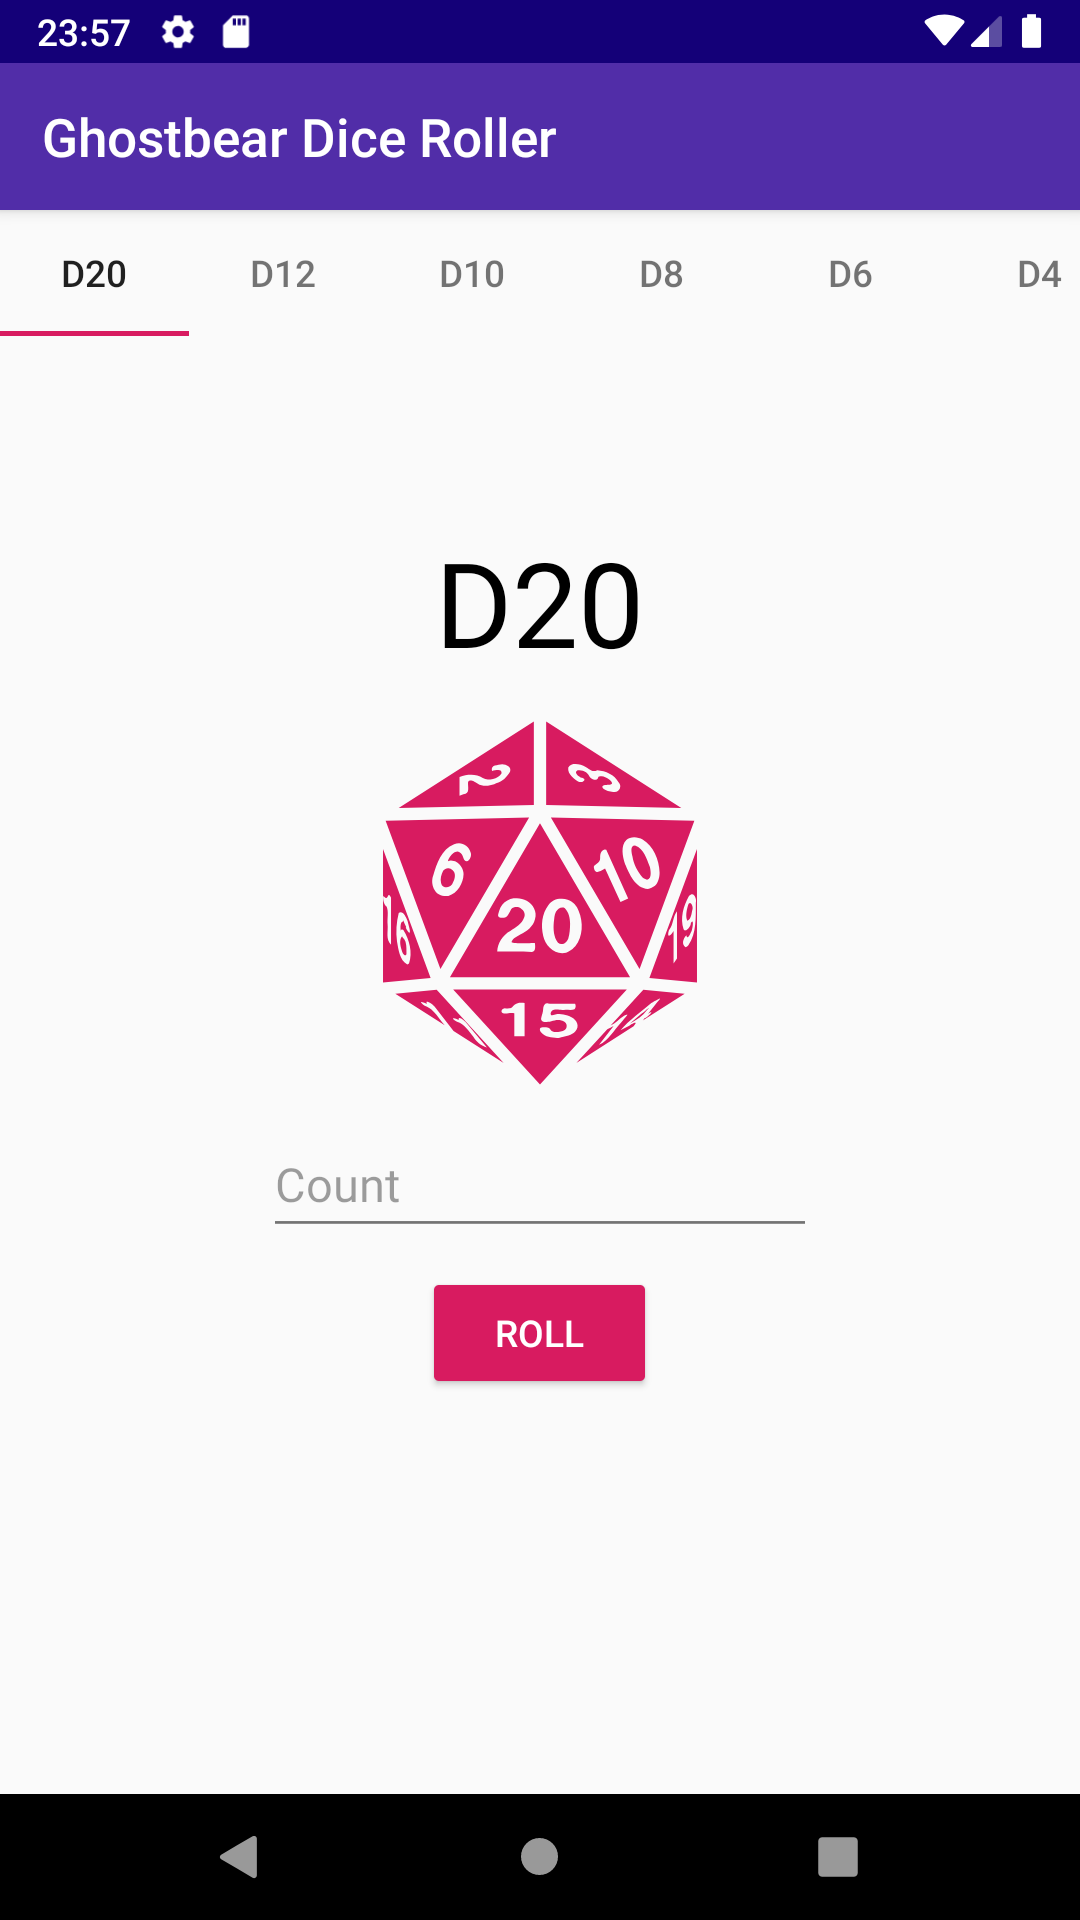
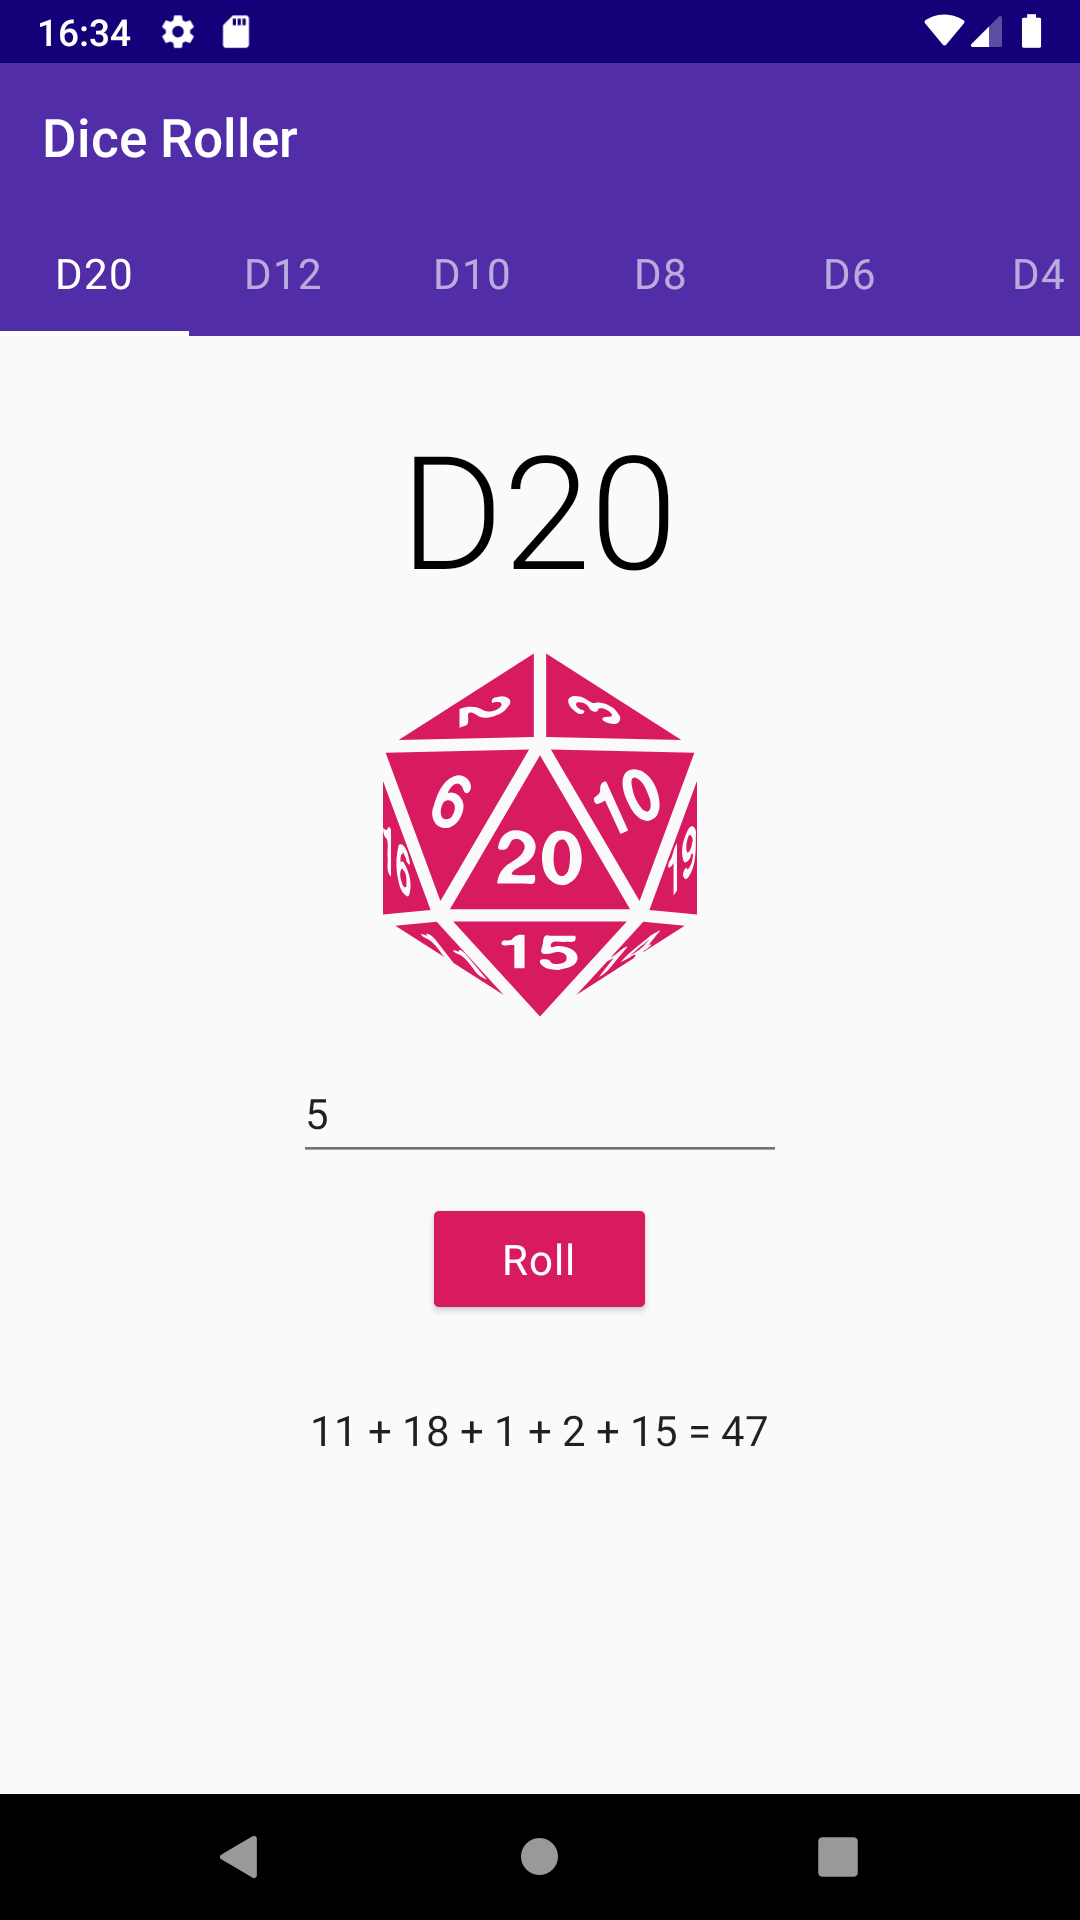
Add Meterial TabLayout
Updated Screenshot
App name to Dice Roller instead of Ghostbear Dice Roller

diff --git a/app/src/main/java/com/github/ghostbear/ghostbeardiceroller/MainActivity.java b/app/src/main/java/com/github/ghostbear/ghostbeardiceroller/MainActivity.java
@@ -9,6 +9,7 @@ public class MainActivity extends AppCompatActivity {
     protected void onCreate(Bundle savedInstanceState) {
         super.onCreate(savedInstanceState);
         setContentView(R.layout.activity_main);
+        getSupportActionBar().setElevation(0);
     }
 }
 
